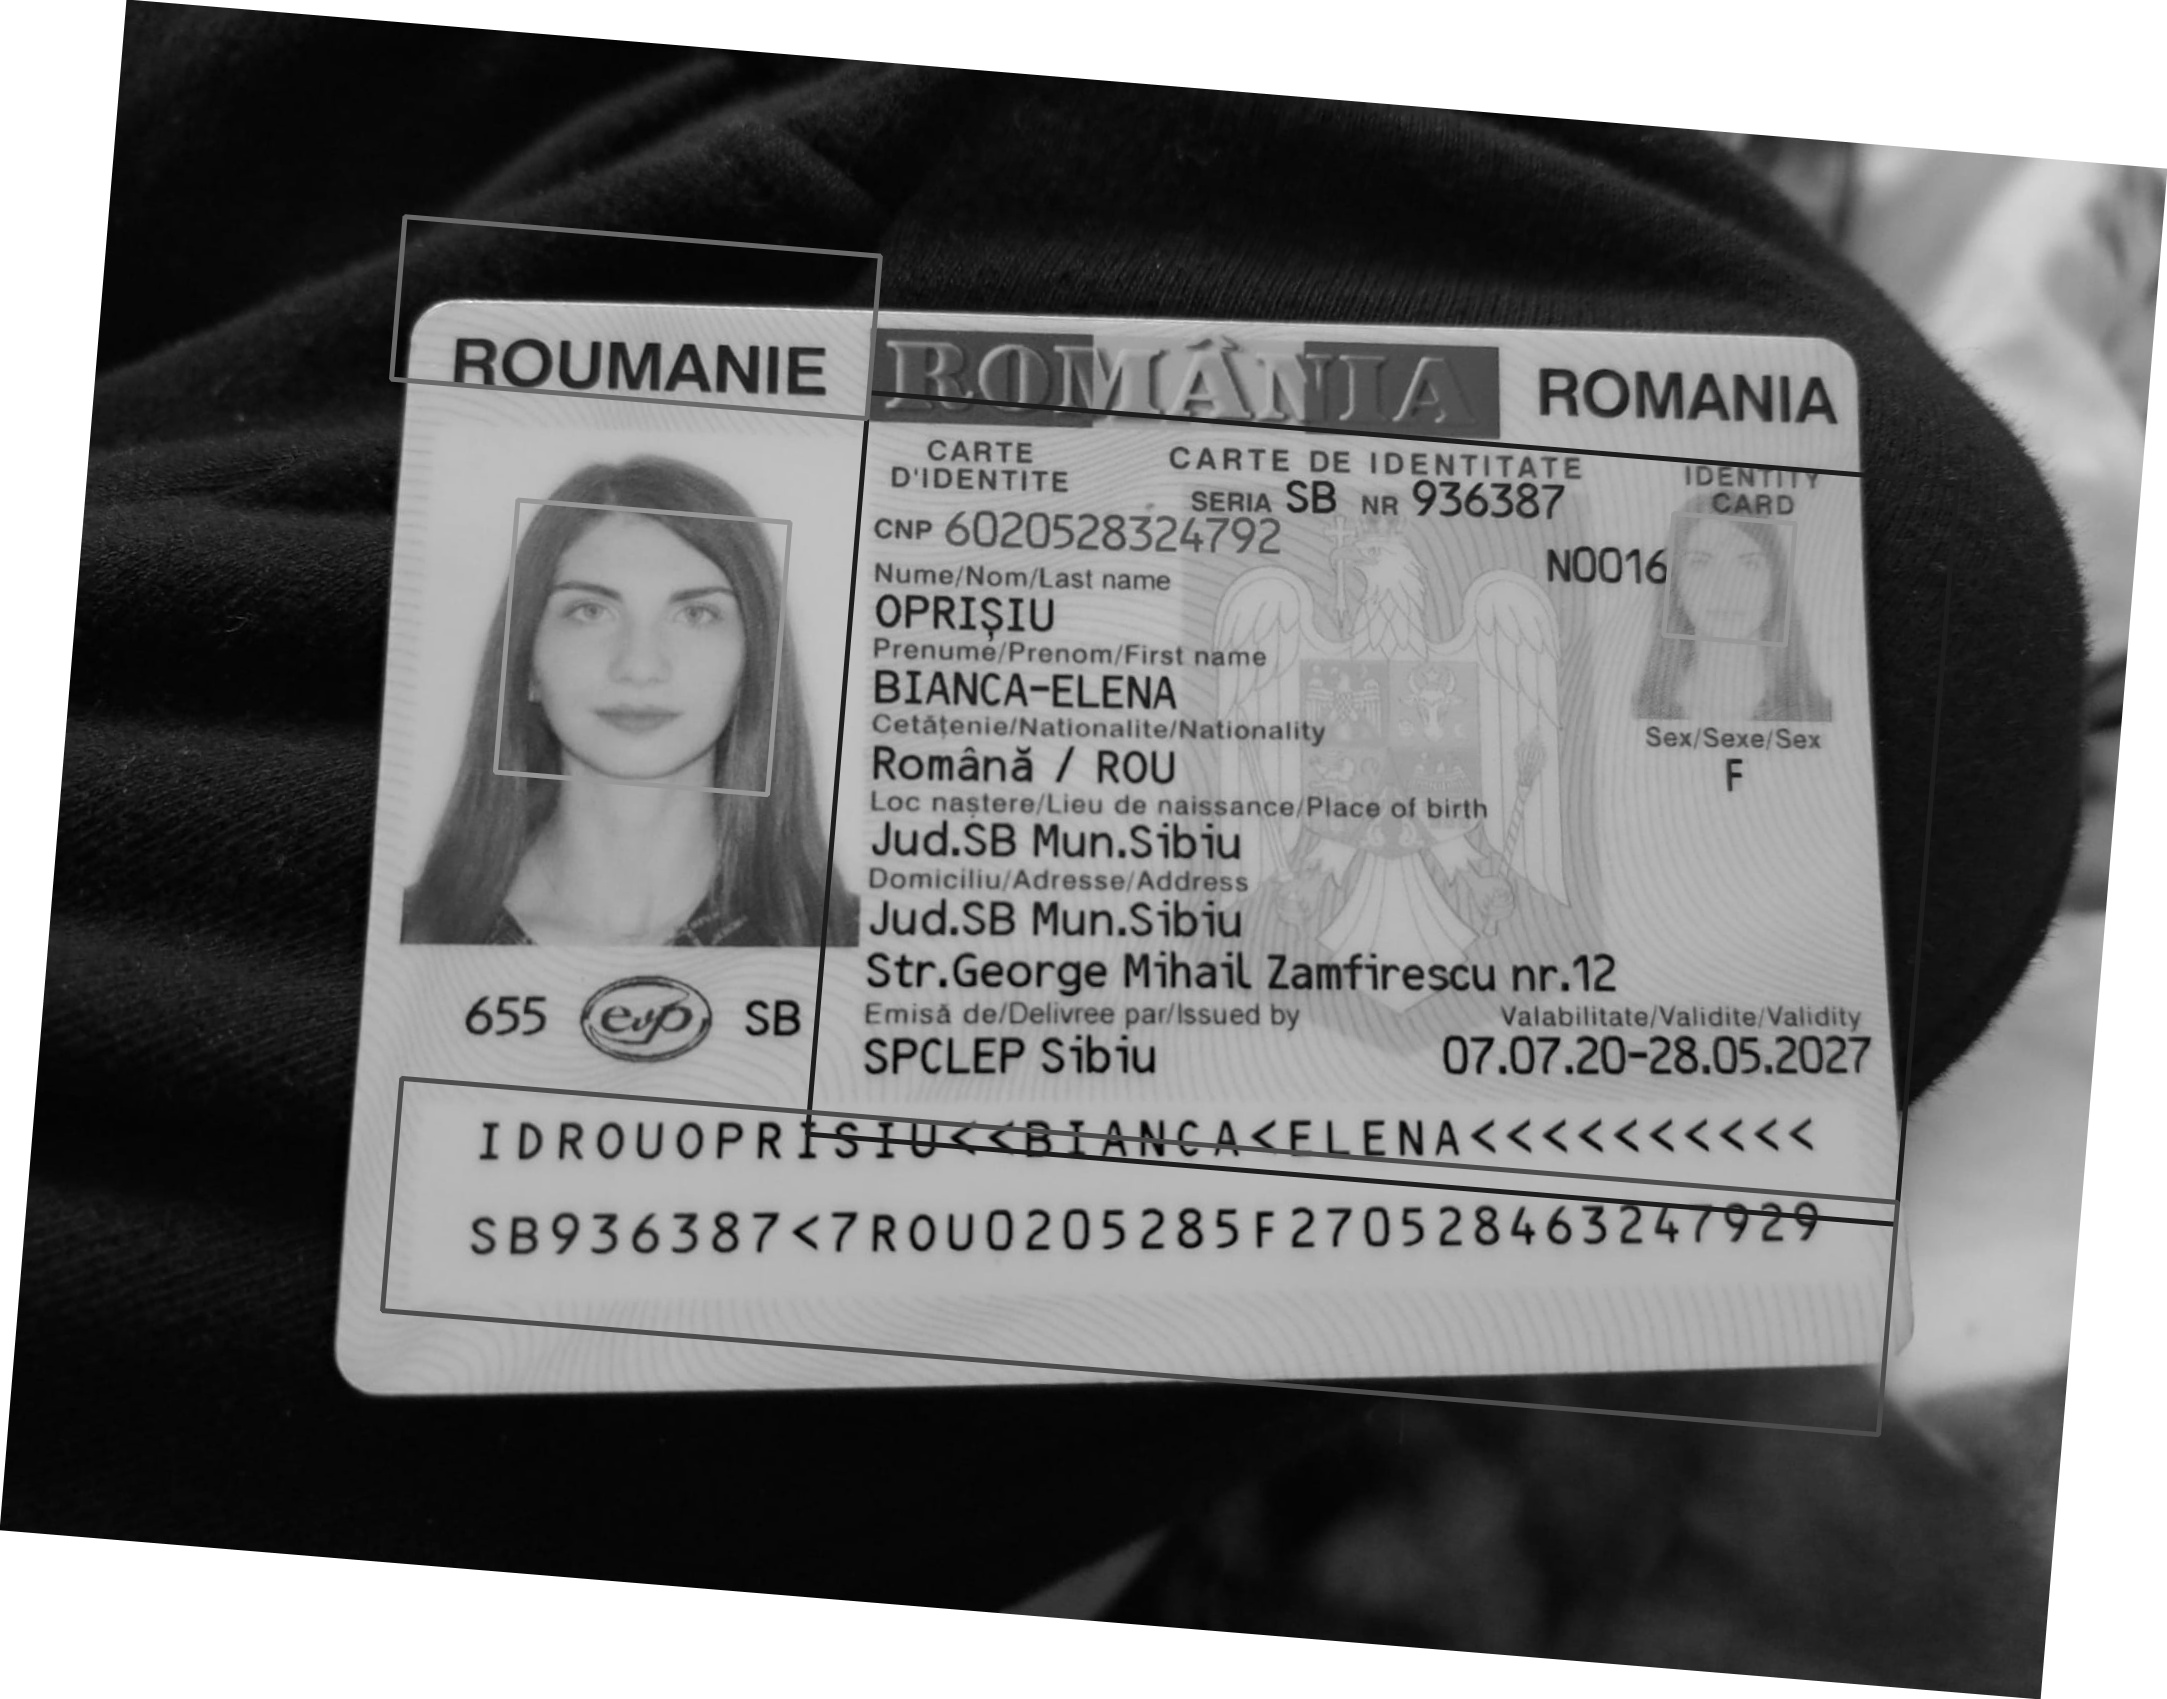
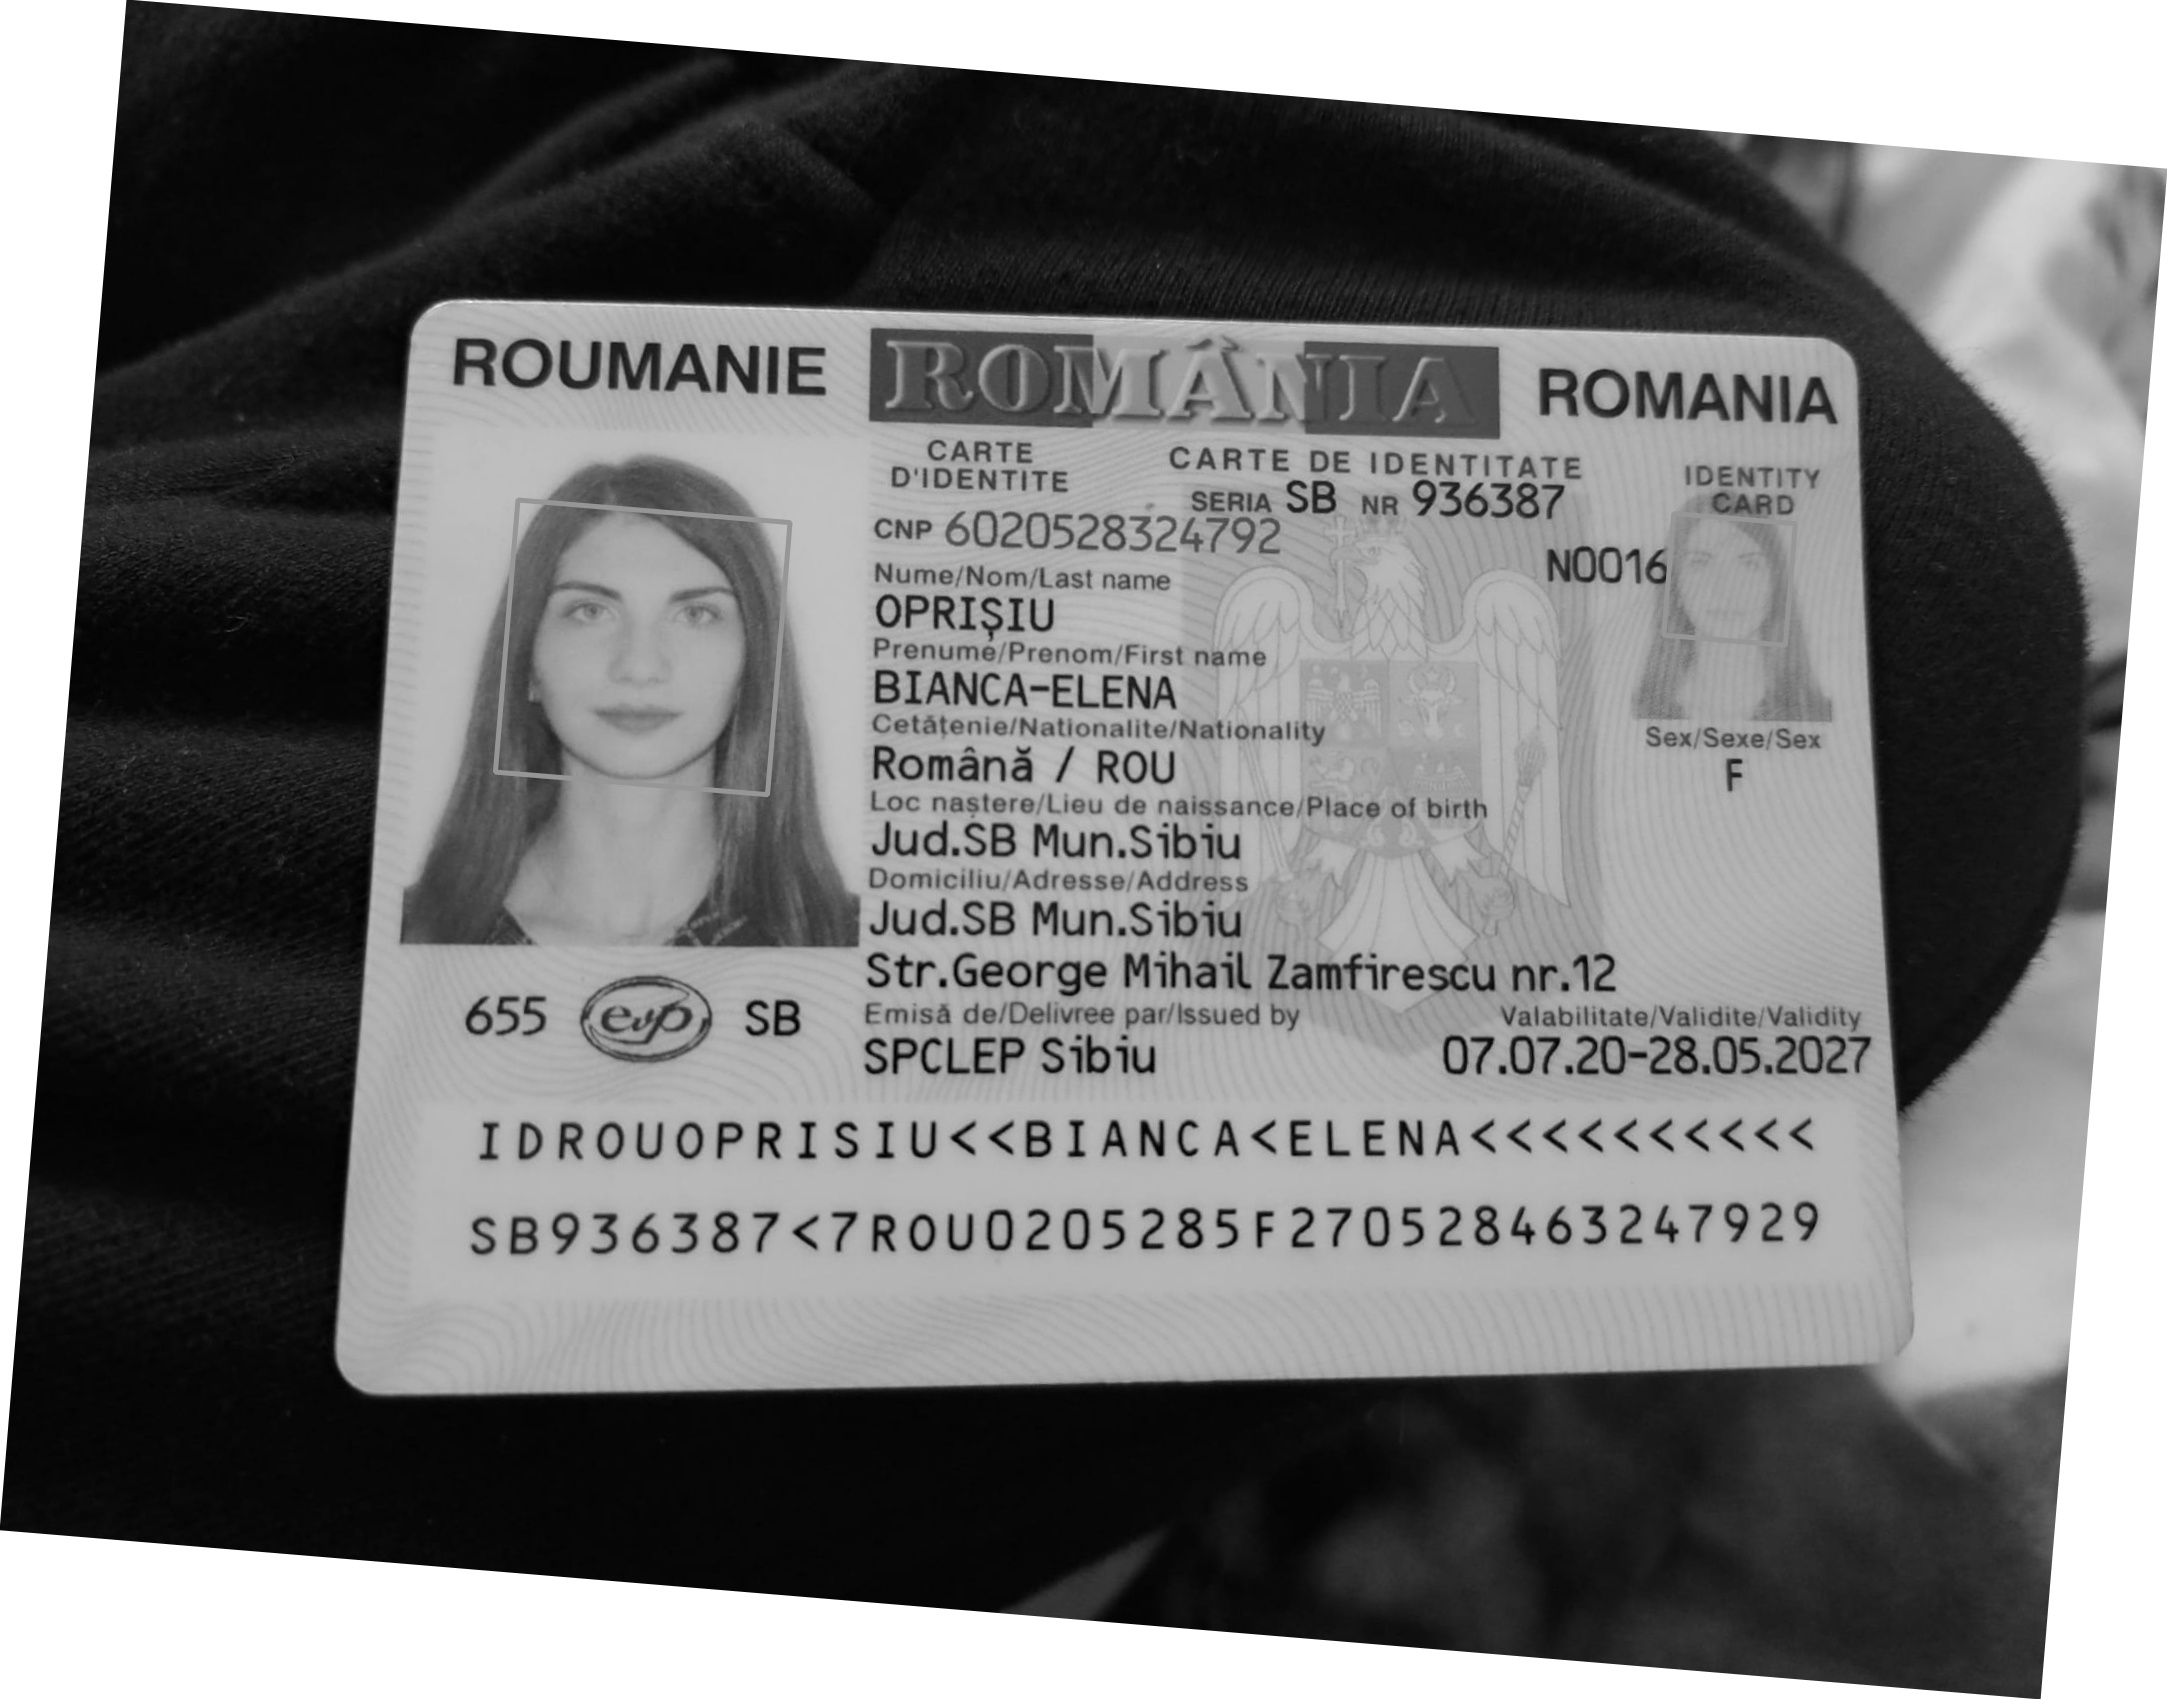
:bug: fixed list index out of bound daca nu citeste ultiele randuri din poza cu validiy si issued_by

diff --git a/IDScanBE/FaceRecognition.py b/IDScanBE/FaceRecognition.py
@@ -4,6 +4,7 @@ import easyocr
 from PIL import Image
 import re
 
+import DetectMRZ
 import ImageOrientation
 from PersonalInformation import PersonalInformation
 # import Validations
@@ -119,13 +120,14 @@ def detectFaces(img):
             print("Face 1 is more on the left")
             X, Y, W, H = face1
         else:
+            print("Face 2 is more on the left")
             X, Y, W, H = face2
 
+    #TODO: gaseste o formula mai buna sau scapa de formula
     #imparte in cele 3+1 cadrane imaginea
-    cv2.rectangle(img, (X + W + int(W * 0.25), Y - int(H * 0.5)), (X + int(5.25 * W), Y + int(2.23 * H)), (255, 0, 0),
-                  3)
-    cv2.rectangle(img, (X - int(W * 0.25), Y + int(H * 2.15)), (X + int(5.25 * W), Y + int(3 * H)), (0, 0, 255), 3)
-    cv2.rectangle(img, (X - int(W * 0.5), Y - int(H)), (X + int(1.25 * W), Y - H + int(0.6 * H)), (255, 0, 255), 3)
+    # cv2.rectangle(img, (X + W + int(W * 0.25), Y - int(H * 0.5)), (X + int(5.25 * W), Y + int(2.23 * H)), (255, 0, 0), 3)
+    # cv2.rectangle(img, (X - int(W * 0.25), Y + int(H * 2.15)), (X + int(5.25 * W), Y + int(3 * H)), (0, 0, 255), 3)
+    # cv2.rectangle(img, (X - int(W * 0.5), Y - int(H)), (X + int(1.25 * W), Y - H + int(0.6 * H)), (255, 0, 255), 3)
 
     input_image_path = "gray_image.jpg"
 
@@ -191,11 +193,20 @@ def getInfoFromText(personal_information):
             else:
                 personal_information['place_of_birth'] = next_line
         elif current_line.startswith("Dom"):
-            personal_information['address'] = next_line + ' ' +lines[i + 2].strip()
+            personal_information['address'] = next_line + ' ' + lines[i + 2].strip()
         elif current_line.startswith("Emis"):
-            personal_information['issued_by'] = lines[i + 2].strip()
+            if len(lines)-1+2 <= i+2:
+                personal_information['issued_by'] = lines[i + 2].strip()
+            else:
+                # print("list index out of range -> nu s-a citit randul respectiv din poza")
+                personal_information['issued_by'] = ''
         elif current_line.startswith("Val"):
-            personal_information['validity'] = lines[i + 2].strip()
+            if len(lines)-1+2 <= i+2:
+                personal_information['validity'] = lines[i + 2].strip()
+            else:
+                # print("list index out of range -> nu s-a citit randul respectiv din poza")
+                personal_information['validity'] = ''
+
 
         if i == len(lines) - 2 and next_line.startswith("ap"):
             personal_information['address'] = personal_information['address'] + " " + next_line
@@ -205,7 +216,9 @@ def getInfoFromCI(img):
     # img = cv2.imread(image_path)
     img_path = "image0.jpeg"
 
+    print("START DETECT FACES")
     detectFaces(img)
+    print("END DETECT FACES")
 
     personal_information = {
         'seria': "",

diff --git a/IDScanBE/main.py b/IDScanBE/main.py
@@ -8,12 +8,14 @@ from PersonalInformation import PersonalInformation
 
 
 # rotatedImage=ImageOrientation.rotateImg(img)
-image_path = "D:\Bia\College\Licenta\CI_DataSet\IDcard\WhatsApp Image 2023-03-28 at 15.07.30.jpeg"
+# image_path = "D:\Bia\College\Licenta\CI_DataSet\IDcard\WhatsApp Image 2023-03-28 at 15.07.30.jpeg"
 image_path='D:\Bia\College\Licenta\Buletine\WhatsApp Image 2023-03-28 at 15.07.27.jpeg'
 
 image = cv2.imread(image_path)
 
-personal_information=FaceRecognition.getInfoFromCI(image)
+personal_information = FaceRecognition.getInfoFromCI(image)
+
+print("O IESIT DIN FaceRecognition.getInfoFromCI(image)")
 
 Person1 = PersonalInformation(
         seria=personal_information['seria'],
@@ -27,8 +29,9 @@ Person1 = PersonalInformation(
         address=personal_information['address'],
         issued_by=personal_information['issued_by'],
         validity=personal_information['validity'],
-        mrz=DetectMRZ.readMRZ(DetectMRZ.detectMRZ("rotatedImage.jpg")),
+        # mrz="",
+        mrz=DetectMRZ.detectMRZ("rotatedImage.jpg"),
         id=id
     )
 
-print(Person1)
+print("SFARSIT")

diff --git a/IDScanBE/DetectMRZ.py b/IDScanBE/DetectMRZ.py
@@ -51,6 +51,8 @@ def detectMRZ(image_path):
     cnts = imutils.grab_contours(cnts)
     cnts = sorted(cnts, key=cv2.contourArea, reverse=True)
 
+    roi = None
+
     for c in cnts:
         # compute the bounding box of the contour and use the contour to
         # compute the aspect ratio and coverage ratio of the bounding box
@@ -80,10 +82,14 @@ def detectMRZ(image_path):
 
     # check if roi is defined before attempting to save it
     if roi is not None:
+        print("MRZ Detected")
         roi_output_path = "output_roi.jpg"
         cv2.imwrite(roi_output_path, roi)
         print(f"ROI saved to {roi_output_path}")
-        return roi
+        return readMRZ(roi)
+        # return roi
+
+    print("MRZ NOT Detected")
 
 def readMRZ(imageMRZ):
     reader = easyocr.Reader(['en'])
